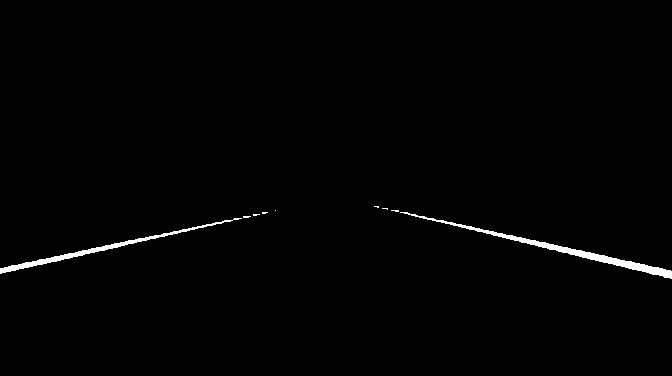
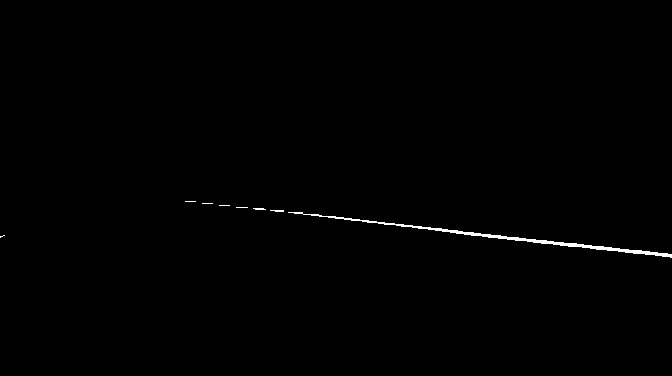
line detection

diff --git a/final/part_a/pure_pursuit.py b/final/part_a/pure_pursuit.py
@@ -185,22 +185,30 @@ def get_contours(src):
     # Copy edges to the images that will display the results in BGR
     cdstP = cv2.cvtColor(dst, cv2.COLOR_GRAY2BGR)
 
-    linesP = cv2.HoughLinesP(dst, 1, np.pi / 180, 50, None, 50, 10)
+    linesP = cv2.HoughLinesP(dst, 1, np.pi/180, 50, None, 20, 500)
+
+    prev_lines = [] # (theta, x1, y1, x2, y2, v)
 
     if linesP is not None:
         for i in range(0, len(linesP)):
-            l = linesP[i][0]
-            v = np.array([l[2], l[3]]) - np.array([l[0], l[1]])
+            x1, y1, x2, y2 = linesP[i][0]
+            v = np.array([x2-x1, y2-y1])
             th = np.arctan2(v[1], v[0])
-            print(np.abs(th))
-            # if np.abs(th) > np.pi / 8:
-            cv2.line(cdstP, (l[0], l[1]), (l[2], l[3]), (0,0,255), 3, cv2.LINE_AA)
+
+            pixel_epsilon = 80
+            scaled_v = 200 * (v / np.linalg.norm(v))
+            if np.abs(th) < .15:
+                continue
+            if any([(np.linalg.norm(scaled_v - prev_line[5]) < pixel_epsilon) for prev_line in prev_lines]):
+                continue
+            prev_lines.append([th, x1, y1, x2, y2, scaled_v])
+            cv2.line(cdstP, (x1, y1), (x2, y2), (0,0,255), 3, cv2.LINE_AA)
     return cdstP
 
 
 def test_get_lanes():
     masks_path = os.path.abspath(os.getcwd()) + "/masks/"
-    for i in range(1, 10):
+    for i in range(1, 24):
         src = cv2.imread(masks_path + "mask" + str(i) + ".jpg")
         image_print(src)
         cdstP = get_contours(src)

diff --git a/final/part_a/color_segmentation.py b/final/part_a/color_segmentation.py
@@ -74,10 +74,10 @@ def cd_color_segmentation(img, y_cutoff=0):
 def test_segmentation():
 	# base_path = os.path.abspath(os.getcwd()) + "/test_curve_low_speed/"
 	# end = 17
-	base_path = os.path.abspath(os.getcwd()) + "/test_straight_curve/"
-	end = 10
-	# base_path = os.path.abspath(os.getcwd()) + "/test_straight_curve_2/"
-	# end = 24
+	# base_path = os.path.abspath(os.getcwd()) + "/test_straight_curve/"
+	# end = 10
+	base_path = os.path.abspath(os.getcwd()) + "/test_straight_curve_2/"
+	end = 24
 
 	for i in range(1, end):
 		img = cv2.imread(base_path + str(i) + ".png")
